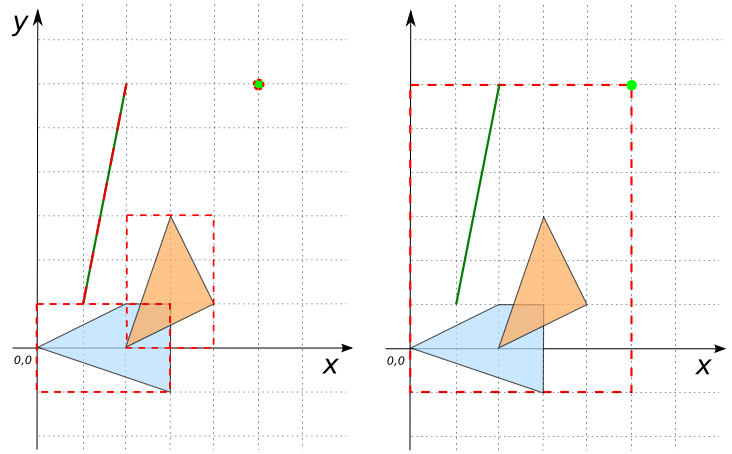
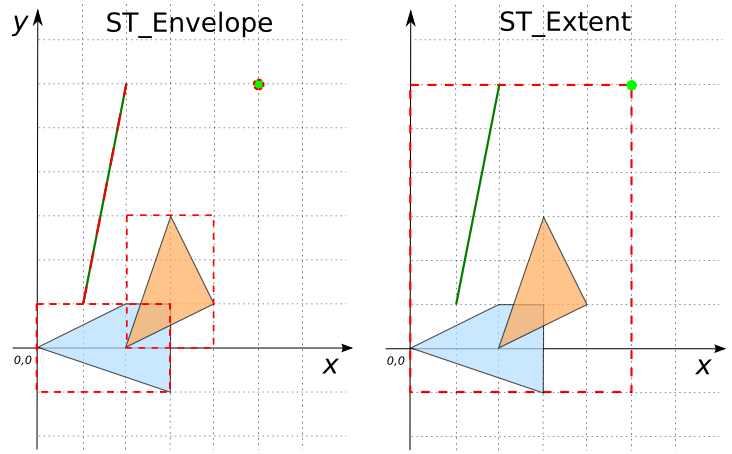
Update example comparison for ST_Envelope

Changed region(s): [[0.6612, 0.0, 0.8716, 0.0925], [0.2104, 0.0308, 0.3907, 0.0925], [0.1503, 0.0, 0.1803, 0.0925]]

diff --git a/_includes/extent-envelope-cf.html b/_includes/extent-envelope-cf.html
@@ -1,0 +1,22 @@
+{% highlight mysql %}
+CREATE TABLE input_table(geom GEOMETRY);
+INSERT INTO input_table VALUES 
+     ('POLYGON ((0 0, 3 -1, 1.5 2, 0 0))'), 
+     ('POLYGON ((2 0, 3 3, 4 2, 2 0))'), 
+     ('POINT(5 6)'), 
+     ('LINESTRING(1 1, 1 6)');
+
+SELECT ST_Envelope(geom, 2154) FROM input_table;
+SELECT ST_Extent(geom) FROM input_table;
+-- Answer: 
+-- |              Envelope                  |                  Extent                |
+-- |----------------------------------------|----------------------------------------|
+-- | POLYGON ((0 -1, 0 6, 5 6, 5 -1, 0 -1)) | POLYGON ((0 -1, 0 2, 3 2, 3 -1, 0 -1)) |
+-- | POLYGON ((2 0, 2 3, 4 3, 4 0, 2 0))    |                                        |
+-- | POINT (5 6)                            |                                        |
+-- | LINESTRING (1 1, 1 6)                  |                                        |
+{% endhighlight %}
+
+Note: This example shows ST_Extent is a aggregate function and ST_Envelope is scalar function. ST_Envelope returns a minimum bounding box to each Geometry. Whereas ST_Extent returns a minimum bounding box of set Geometry.
+
+<img class="displayed" src="../ST_Envelope_3.png"/>

diff --git a/docs/dev/ST_Envelope.md b/docs/dev/ST_Envelope.md
@@ -2,7 +2,7 @@
 layout: docs
 title: ST_Envelope
 category: h2spatial/properties
-description: Returns Geometry envelope as <code>GEOMETRY</code>
+description: Return Geometry envelope as <code>GEOMETRY</code>
 prev_section: ST_EndPoint
 next_section: ST_ExteriorRing
 permalink: /docs/dev/ST_Envelope/
@@ -47,33 +47,11 @@ SELECT ST_Envelope('LINESTRING(1 2, 5 3, 2 6)', 2154);
 SELECT ST_Envelope('POLYGON ((0 -1, 0 2, 3 2, 3 -1, 0 -1))', 
     2154);
 -- Answer: POLYGON ((0 -1, 0 2, 3 2, 3 -1, 0 -1))
-
-CREATE TABLE input_table(geom GEOMETRY);
-INSERT INTO input_table VALUES 
-     ('POLYGON ((0 0, 3 -1, 1.5 2, 0 0))'), 
-     ('POLYGON ((2 0, 3 3, 4 2, 2 0))'), 
-     ('POINT(5 6)'), 
-     ('LINESTRING(1 1, 1 6)');
-
-SELECT ST_Envelope(geom, 2154) FROM input_table;
--- Answer: POLYGON ((0 -1, 0 2, 3 2, 3 -1, 0 -1))
---         POLYGON ((2 0, 2 3, 4 3, 4 0, 2 0))
---         POINT (5 6)
---         LINESTRING (1 1, 1 6)
-
-CREATE TABLE input_table(geom GEOMETRY);
-INSERT INTO input_table VALUES 
-     ('POLYGON ((0 0, 3 -1, 1.5 2, 0 0))'), 
-     ('POLYGON ((2 0, 3 3, 4 2, 2 0))'), 
-     ('POINT(5 6)'), 
-     ('LINESTRING(1 1, 1 6)');
-SELECT ST_Extent(geom) FROM input_table;
--- Answer: POLYGON ((0 -1, 0 6, 5 6, 5 -1, 0 -1))
 {% endhighlight %}
 
-Note: This example shows ST_Extent is a aggregate function and ST_Envelope is scalar function. ST_Envelope returns a minimum bounding box to each Geometry. Whereas ST_Extent returns a minimum bounding box of set Geometry.
+##### Comparison with [`ST_Extent`](../ST_Extent)
 
-<img class="displayed" src="../ST_Envelope_3.png"/>
+{% include extent-envelope-cf.html %}
 
 ##### See also
 
